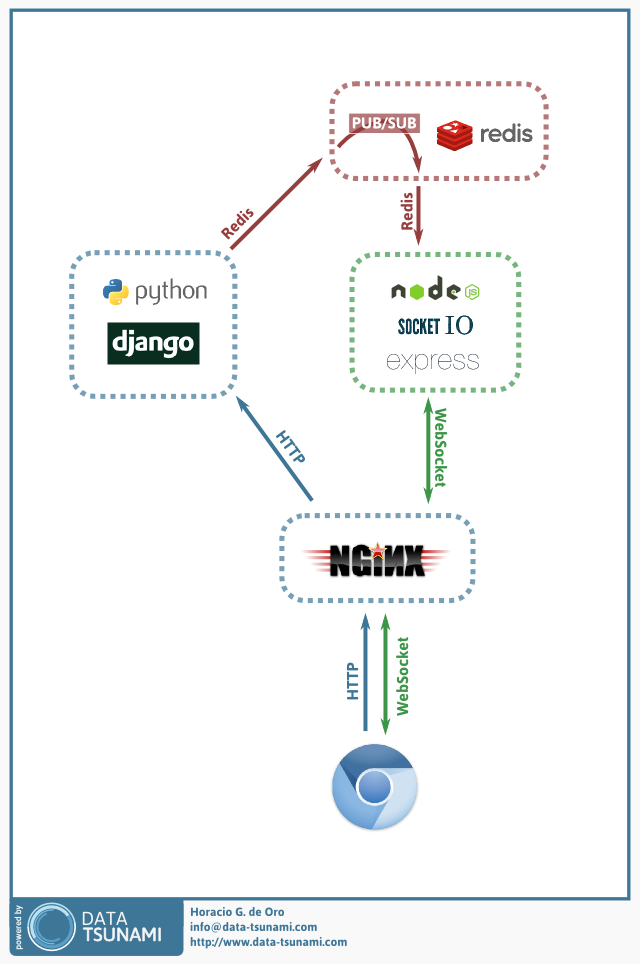
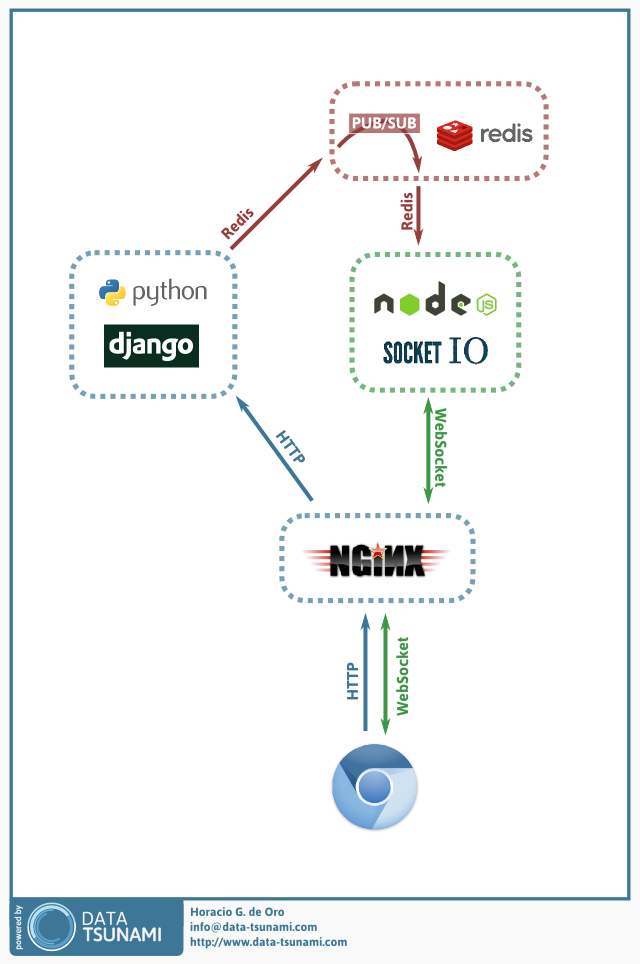
Remove Express

Changed region(s): [[0.5625, 0.2801, 0.7812, 0.4046], [0.1562, 0.2801, 0.3125, 0.4046]]

diff --git a/app.js b/app.js
@@ -7,37 +7,19 @@
  * Module dependencies.
  */
 
-var _express = require('express');
 var _http = require('http');
-var _path = require('path');
 var _io = require('socket.io');
 var _redis = require('redis');
 
-/*
- * Setup Express
- */
-
-var app = _express();
-
 // all environments
 var UUIDCOOKIE_PREFIX = process.env.UUIDCOOKIE_PREFIX || 'cookie-';
-app.set('port', process.env.PORT || 3000);
-app.use(_express.favicon());
-app.use(_express.logger('dev'));
-app.use(_express.json());
-app.use(_express.urlencoded());
-app.use(_express.methodOverride());
-
-// development only
-if ('development' === app.get('env')) {
-  app.use(_express.errorHandler());
-}
+var HTTP_PORT = process.env.PORT || 3000;
 
 /*
  * Setup HTTP server and Socket.IO
  */
 
-var server = _http.createServer(app);
+var server = _http.createServer();
 var io = _io.listen(server);
 
 //
@@ -184,6 +166,6 @@ io.of('/io/user/notifications').on(
 
     });
 
-server.listen(app.get('port'), function() {
-  console.log('Express server listening on port ' + app.get('port'));
+server.listen(HTTP_PORT, function() {
+  console.log('Node.JS server listening on port ' + HTTP_PORT);
 });
